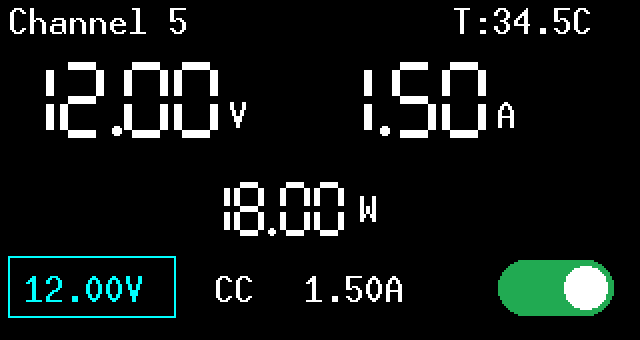
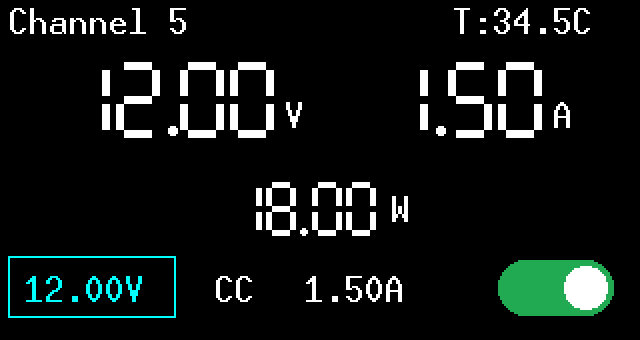
Center the channel-detail V/A/W readouts on the panel
The voltage and current hero columns form a fixed-width ensemble that sat
against the left edge (5 px left margin, 62 px right); shifting it to x=33
centers it with equal margins, and the power row moves 16 px right to true
screen center. Relative spacing between the three readouts is unchanged.
Screenshots regenerated.

diff --git a/Firmware/Rust/benchvolt-pd/src/view.rs b/Firmware/Rust/benchvolt-pd/src/view.rs
@@ -364,12 +364,15 @@ where
         .ok();
     }
 
+    // The V column plus the A column form a fixed 253 px ensemble (the A
+    // column's right edge is constant); x = 33 centers it on the 320 px
+    // panel with equal margins.
     fn draw_detail_voltage(&mut self, projection: DetailProjection) {
-        self.draw_hero(projection.voltage_centivolts.map(u32::from), 5, "V");
+        self.draw_hero(projection.voltage_centivolts.map(u32::from), 33, "V");
     }
 
     fn draw_detail_current(&mut self, projection: DetailProjection) {
-        self.draw_hero(projection.current_centiamps.map(u32::from), 164, "A");
+        self.draw_hero(projection.current_centiamps.map(u32::from), 192, "A");
     }
 
     fn draw_detail_power(&mut self, projection: DetailProjection) {
@@ -395,8 +398,9 @@ where
             Some(value) => write!(&mut text, "{}.{:02} W", value / 100, value % 100).ok(),
             None => text.push_str("--.-- W").ok(),
         };
-        self.clear_detail_region(90, 88, 150, 35);
-        let mut cursor = 100;
+        // A typical "XX.XX W" is 89 px wide; starting at 116 centers it.
+        self.clear_detail_region(106, 88, 150, 35);
+        let mut cursor = 116;
         for character in text.chars() {
             match character {
                 '0'..='9' | '-' => {
